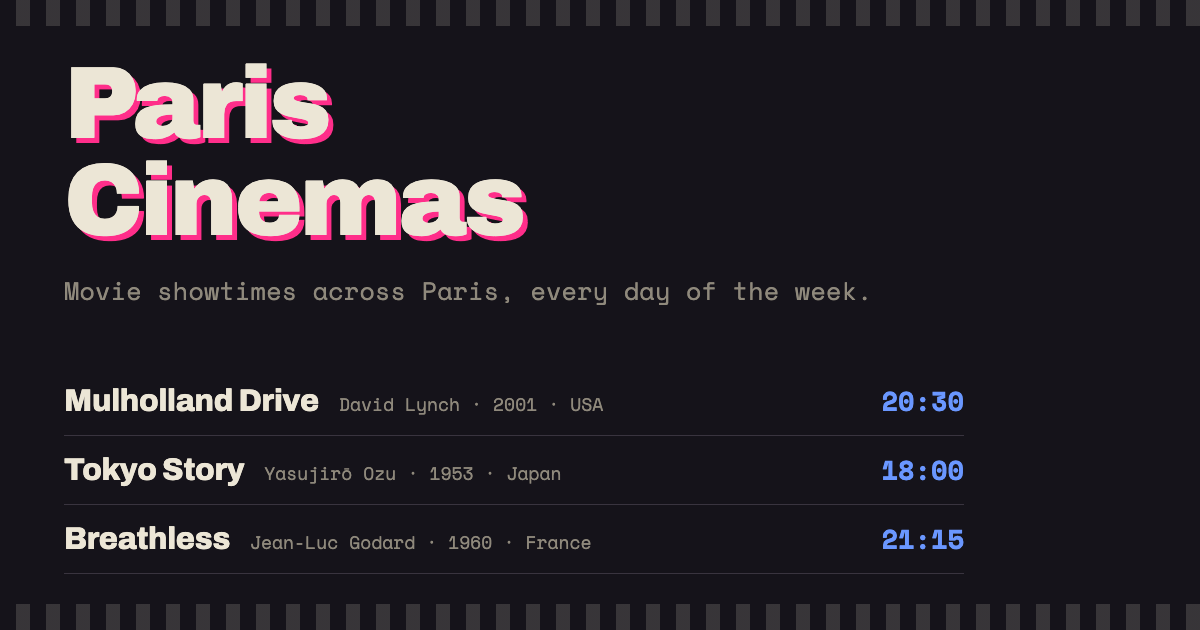
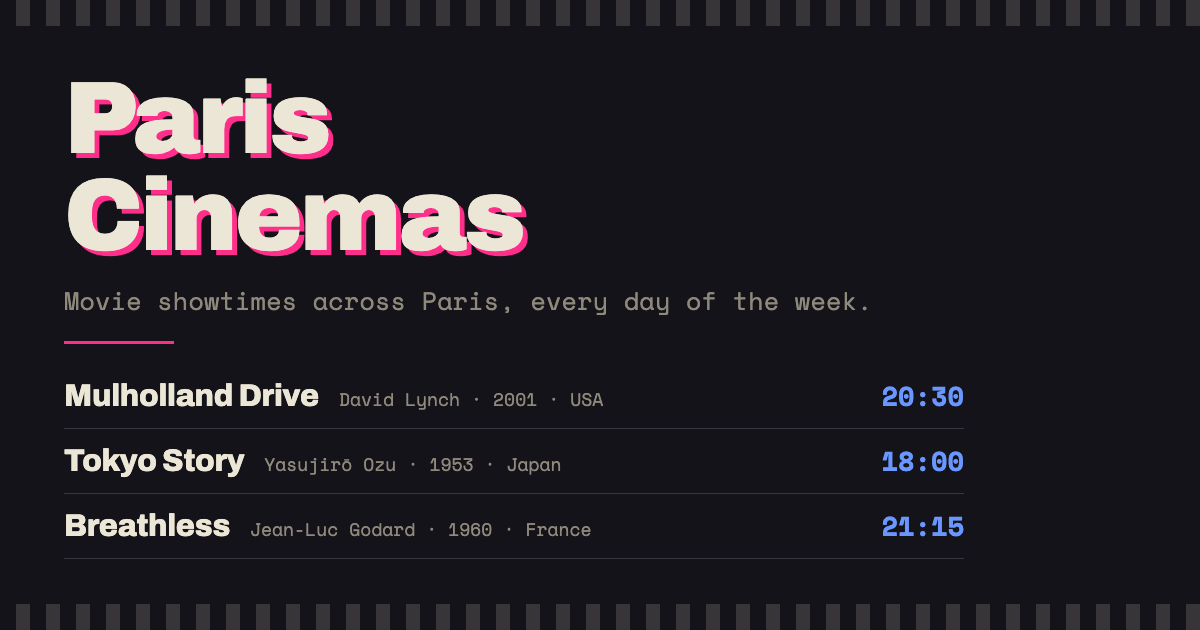
Auto light/dark by Paris sunset; tidy preview, posters, URLs
- Replace the manual theme toggle with automatic switching: Riso by day,
  Riso Noir after sunset in Paris (computed via the sunrise equation,
  re-checked every few minutes).
- Posters: drop the zoom cursor for a pointer + a subtle hover lift.
- Social card: tighten the vertical spacing so the listing sits higher.
- Point og:/twitter: URLs at the renamed Paris-cinemas site and
  cache-bust the favicon link so the new icon is picked up.

diff --git a/index.html b/index.html
@@ -4,20 +4,20 @@
 <meta charset="utf-8">
 <meta name="viewport" content="width=device-width, initial-scale=1">
 <title>Paris Cinemas</title>
-<meta name="description" content="Repertory cinema showtimes across Paris — 17 cinemas, every day of the week.">
+<meta name="description" content="Movie showtimes across Paris, every day of the week.">
 <meta property="og:title" content="Paris Cinemas">
-<meta property="og:description" content="Repertory cinema showtimes across Paris — 17 cinemas, every day of the week.">
+<meta property="og:description" content="Movie showtimes across Paris, every day of the week.">
 <meta property="og:type" content="website">
-<meta property="og:url" content="https://barburevencu.github.io/UGC-Cinemas/">
-<meta property="og:image" content="https://barburevencu.github.io/UGC-Cinemas/og.png">
+<meta property="og:url" content="https://barburevencu.github.io/Paris-cinemas/">
+<meta property="og:image" content="https://barburevencu.github.io/Paris-cinemas/og.png">
 <meta property="og:image:width" content="1200">
 <meta property="og:image:height" content="630">
 <meta name="twitter:card" content="summary_large_image">
 <meta name="twitter:title" content="Paris Cinemas">
-<meta name="twitter:description" content="Repertory cinema showtimes across Paris — 17 cinemas, every day of the week.">
-<meta name="twitter:image" content="https://barburevencu.github.io/UGC-Cinemas/og.png">
-<link rel="icon" type="image/svg+xml" href="favicon.svg">
-<link rel="apple-touch-icon" href="favicon.svg">
+<meta name="twitter:description" content="Movie showtimes across Paris, every day of the week.">
+<meta name="twitter:image" content="https://barburevencu.github.io/Paris-cinemas/og.png">
+<link rel="icon" type="image/svg+xml" href="favicon.svg?v=2">
+<link rel="apple-touch-icon" href="favicon.svg?v=2">
 <link rel="preconnect" href="https://fonts.googleapis.com">
 <link rel="preconnect" href="https://fonts.gstatic.com" crossorigin>
 <link rel="stylesheet" href="https://fonts.googleapis.com/css2?family=Anton&family=Archivo:wght@500;800;900&family=Bebas+Neue&family=Space+Mono:wght@400;700&display=swap">
@@ -45,16 +45,6 @@
   .tab { cursor:pointer; color:var(--muted); padding-bottom:10px; border:0; border-bottom:2px solid transparent; margin-bottom:-1px; background:none; font:inherit; font-size:13.5px; }
   .tab:hover { color:var(--fg); }
   .tab.active { color:var(--fg); border-bottom-color:var(--accent); }
-
-  /* Light switch — a small, quiet ink slider tucked beside the wordmark; the
-     knob slides pink (left = Riso) to blue (right = Riso Noir). */
-  .lswitch { flex:0 0 auto; align-self:center; background:none; border:0; padding:0; cursor:pointer; line-height:0; }
-  .lswitch .trk { display:block; width:30px; height:16px; border:1.5px solid var(--faint);
-                  border-radius:999px; padding:1.5px; }
-  .lswitch .knob { display:block; width:10px; height:10px; border-radius:999px; background:#ff2e8a;
-                   transition:transform .18s, background .18s; }
-  body[data-skin="risonoir"] .lswitch .knob { transform:translateX(14px); background:#6a97ff; }
-  .lswitch:focus-visible { outline:2px solid var(--accent); outline-offset:3px; border-radius:6px; }
 
   .controls { display:flex; flex-direction:column; gap:13px; padding:20px 0 0; }
   .pills { display:flex; flex-wrap:wrap; gap:7px 18px; }
@@ -85,11 +75,13 @@
 
   .film, .ev { display:flex; gap:16px; align-items:flex-start; padding:11px 0; border-bottom:1px solid var(--line); }
   .poster { flex:0 0 auto; width:46px; height:69px; object-fit:cover; border-radius:4px;
-            background:var(--line); box-shadow:0 1px 3px rgba(0,0,0,.14); cursor:zoom-in; }
+            background:var(--line); box-shadow:0 1px 3px rgba(0,0,0,.14); cursor:pointer;
+            transition:transform .12s ease, box-shadow .12s ease; }
+  .poster:hover { transform:scale(1.07); box-shadow:0 4px 12px rgba(0,0,0,.35); }
 
   /* Poster lightbox: click a thumbnail to see it full size. */
   #lightbox { position:fixed; inset:0; z-index:100; display:none; align-items:center; justify-content:center;
-              background:rgba(10,8,12,.82); padding:24px; cursor:zoom-out; }
+              background:rgba(10,8,12,.82); padding:24px; cursor:pointer; }
   #lightbox.open { display:flex; }
   #lightbox img { max-width:92vw; max-height:88vh; border-radius:6px; box-shadow:0 16px 50px rgba(0,0,0,.55); }
   .ev .poster { width:34px; height:51px; }
@@ -132,7 +124,6 @@
   @media (max-width:560px) {
     .bar { flex-wrap:wrap; gap:12px 16px; }
     nav { margin-left:0; order:2; width:100%; flex-wrap:wrap; gap:4px 16px; }
-    .lswitch { margin-left:auto; }
   }
 
   /* ============================================================
@@ -235,9 +226,6 @@
       <button class="tab" data-view="movie">Movies</button>
       <button class="tab" data-view="cinema">Cinemas</button>
     </nav>
-    <button class="lswitch" id="lswitch" aria-label="Switch between light and dark" aria-pressed="false">
-      <span class="trk"><span class="knob"></span></span>
-    </button>
   </div>
 </div></header>
 
@@ -577,19 +565,30 @@ document.getElementById("tabs").onclick = (e) => {
   renderAll();
 };
 
-// --- Light switch: toggles between Riso (light) and Riso Noir (dark) ---
-function applySkin(s){
-  if(s !== "riso" && s !== "risonoir") s = "riso";
-  document.body.dataset.skin = s;
-  const sw = document.getElementById("lswitch");
-  if(sw) sw.setAttribute("aria-pressed", s === "risonoir" ? "true" : "false");
-  try { localStorage.setItem("skin", s); } catch(e) {}
+// --- Theme follows the sun in Paris: Riso by day, Riso Noir after sunset. ---
+function parisIsDaylight(){
+  // Sunrise equation (NOAA): today's sunrise/sunset at Paris as UTC instants.
+  const lat = 48.8566, lng = 2.3522, rad = Math.PI / 180, now = Date.now();
+  const J = now / 86400000 + 2440587.5;                 // Julian date
+  const n = Math.round(J - 2451545.0 + 0.0008);
+  const Js = n + lng / 360;                             // mean solar time
+  const M = (357.5291 + 0.98560028 * Js) % 360;
+  const C = 1.9148 * Math.sin(M * rad) + 0.0200 * Math.sin(2 * M * rad) + 0.0003 * Math.sin(3 * M * rad);
+  const lam = (M + C + 180 + 102.9372) % 360;
+  const Jtransit = 2451545.0 + Js + 0.0053 * Math.sin(M * rad) - 0.0069 * Math.sin(2 * lam * rad);
+  const decl = Math.asin(Math.sin(lam * rad) * Math.sin(23.44 * rad));
+  const cosH = (Math.sin(-0.833 * rad) - Math.sin(lat * rad) * Math.sin(decl)) /
+               (Math.cos(lat * rad) * Math.cos(decl));
+  if(cosH <= -1) return true;    // sun never sets
+  if(cosH >= 1) return false;    // sun never rises
+  const H = Math.acos(cosH) / rad;
+  const toMs = j => (j - 2440587.5) * 86400000;
+  const sunrise = toMs(Jtransit - H / 360), sunset = toMs(Jtransit + H / 360);
+  return now >= sunrise && now < sunset;
 }
-document.getElementById("lswitch").onclick = () =>
-  applySkin(document.body.dataset.skin === "risonoir" ? "riso" : "risonoir");
-let _skin = "riso";
-try { _skin = localStorage.getItem("skin") || "riso"; } catch(e) {}
-applySkin(_skin);
+function applyAutoSkin(){ document.body.dataset.skin = parisIsDaylight() ? "riso" : "risonoir"; }
+applyAutoSkin();
+setInterval(applyAutoSkin, 300000);   // re-check every 5 min so it flips at sunset
 
 // --- Poster lightbox: click a poster to view it full size. ---
 const _lb = document.getElementById("lightbox"), _lbImg = _lb.querySelector("img");
